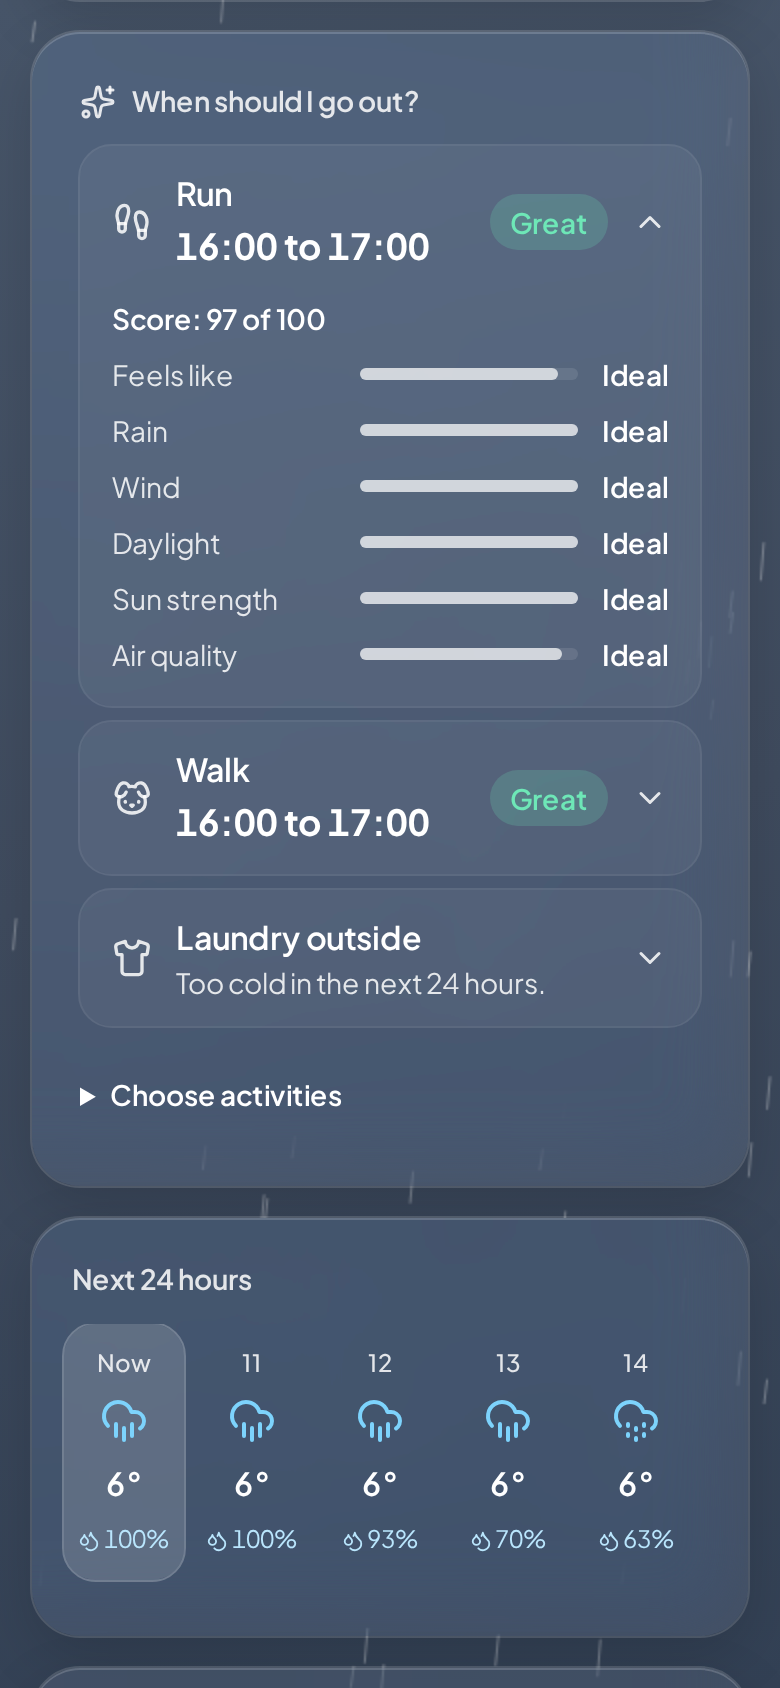
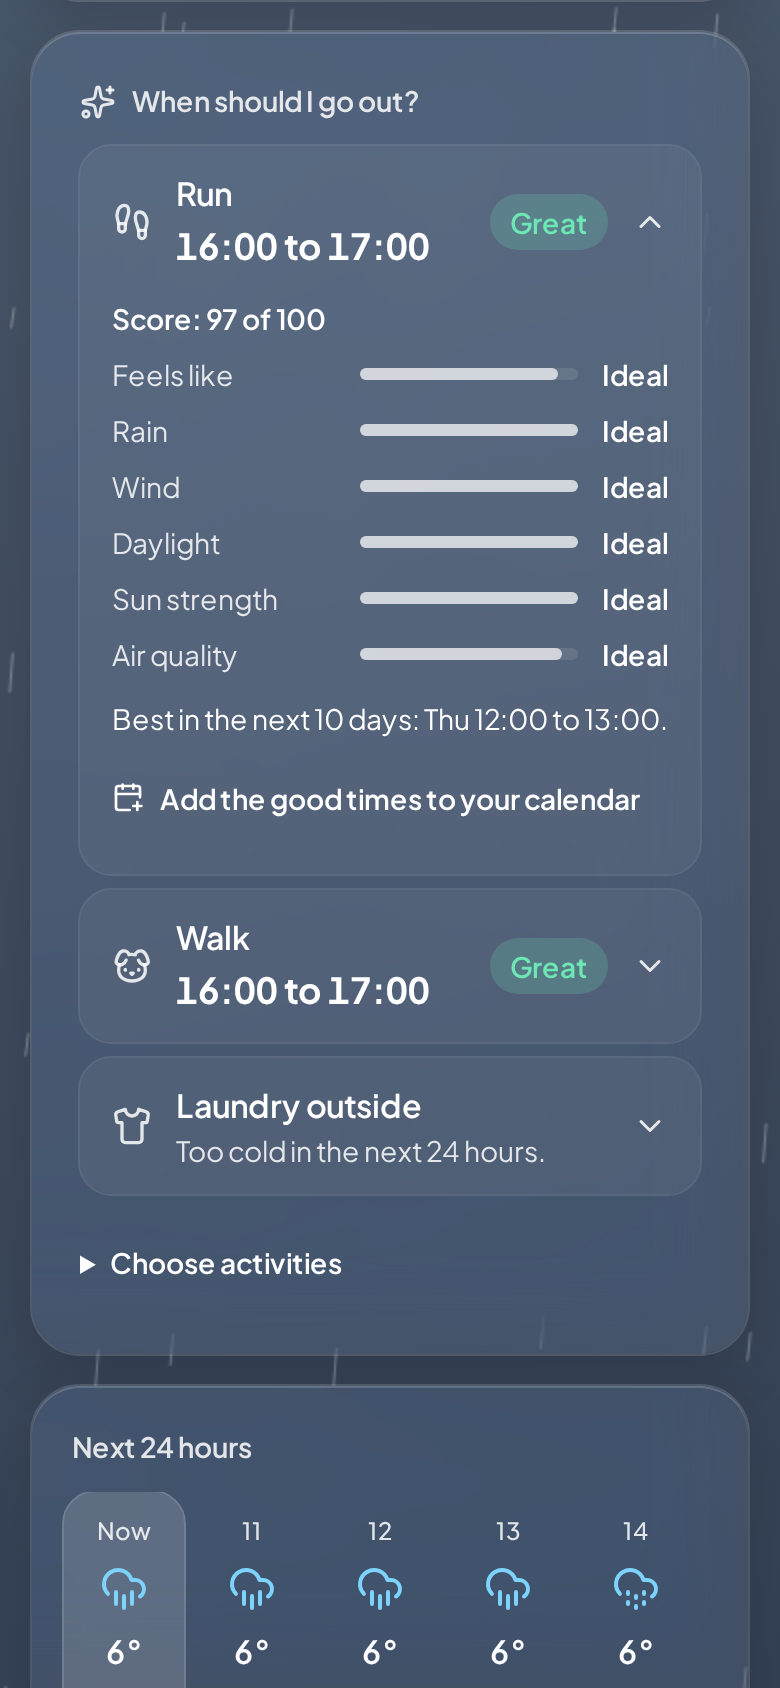
Describe what to wear, comparisons, calendar files and the live location in the README, with fresh screenshots

diff --git a/README.md b/README.md
@@ -6,7 +6,7 @@
 The weather, made sense of. Most weather apps show a grid of numbers and icons and leave the thinking to you. SkySense answers the questions people actually ask, and says how sure the answer is.
 
 <p align="center">
-  <img src="docs/screenshots/mobile-overview.png" alt="Bratislava on a phone: the summary 'Rain until 16:00, then dry.', a moderate air quality notice, 6 degrees with rain, and the umbrella answer 'Yes, until 16:00.'" width="260">
+  <img src="docs/screenshots/mobile-overview.png" alt="Bratislava on a phone: the summary 'Rain until 16:00, then dry.', a moderate air quality notice, and 6 degrees with rain and the advice 'A warm jacket. Something waterproof too.'" width="260">
   <img src="docs/screenshots/mobile-activities.png" alt="The activity tile: a run from 16:00 to 17:00 scored 97 of 100 with a bar for each factor, a walk at the same time, and laundry 'Too cold in the next 24 hours.'" width="260">
   <img src="docs/screenshots/mobile-night.png" alt="Norilsk at night on a phone: 'Dry for the next 24 hours. Some model runs do show rain or snow, though.' and minus 8 degrees" width="260">
 </p>
@@ -15,13 +15,14 @@ The weather, made sense of. Most weather apps show a grid of numbers and icons a
 
 ## What it answers
 
-- **What is the weather doing?** One or two plain sentences on top ("Rain until 16:00, then dry."), then tiles that each answer one question: do I need an umbrella, when does it get dark, how windy is it.
-- **When should I go out?** Every hour is scored for running, cycling, walking, laundry outside, stargazing and golden hour photos. The tile names the best time, or why there is none ("Too wet in the next 24 hours."), and each score opens into the factors behind it. A comfort setting shifts the temperatures for people who get cold or warm easily.
+- **What is the weather doing?** One or two plain sentences on top ("Rain until 16:00, then dry."), what to wear ("A warm jacket. Something waterproof too."), then tiles that each answer one question: do I need an umbrella, when does it get dark, how windy is it.
+- **When should I go out?** Every hour is scored for running, cycling, walking, hiking, a picnic, laundry outside, stargazing and golden hour photos. The tile names the best time today and in the next 10 days, or why there is none ("Too wet in the next 24 hours."), each score opens into the factors behind it, and the good times download as a calendar file. A comfort setting shifts the temperatures for people who get cold or warm easily.
 - **How sure is it?** 51 runs of the ECMWF ensemble give a likely range around the temperature line, "96% of model runs show it right now" under the umbrella answer, and "Less sure" or "Uncertain" on later days. The summary hedges when the runs disagree. Five weather models can be compared side by side.
 - **Is this normal?** Today's high against the 1991 to 2020 climate for the date ("3° colder than usual."), and the same date in each of the last ten years.
-- **Anything else I should know?** Air quality and pollen when they matter, tonight's moon, strong gusts, frost and heat.
+- **Anything else I should know?** Air quality and pollen when they matter, tonight's moon, strong gusts, frost and heat, and how far the place's clock is from yours.
+- **Where is it nicer?** Two saved places side by side, day by day, with the nicer one marked.
 
-Mobile first, installable and usable offline for places opened before. No accounts, no tracking. In English, German, Slovak, Hungarian and Spanish.
+Mobile first, installable and usable offline for places opened before, with a "My location" entry that finds you again. No accounts, no tracking. In English, German, Slovak, Hungarian and Spanish.
 
 ![Five weather models compared for Madrid: temperature lines told apart by colour and dash pattern, and each model's rain for the next 24 hours](docs/screenshots/desktop-models.png)
 
